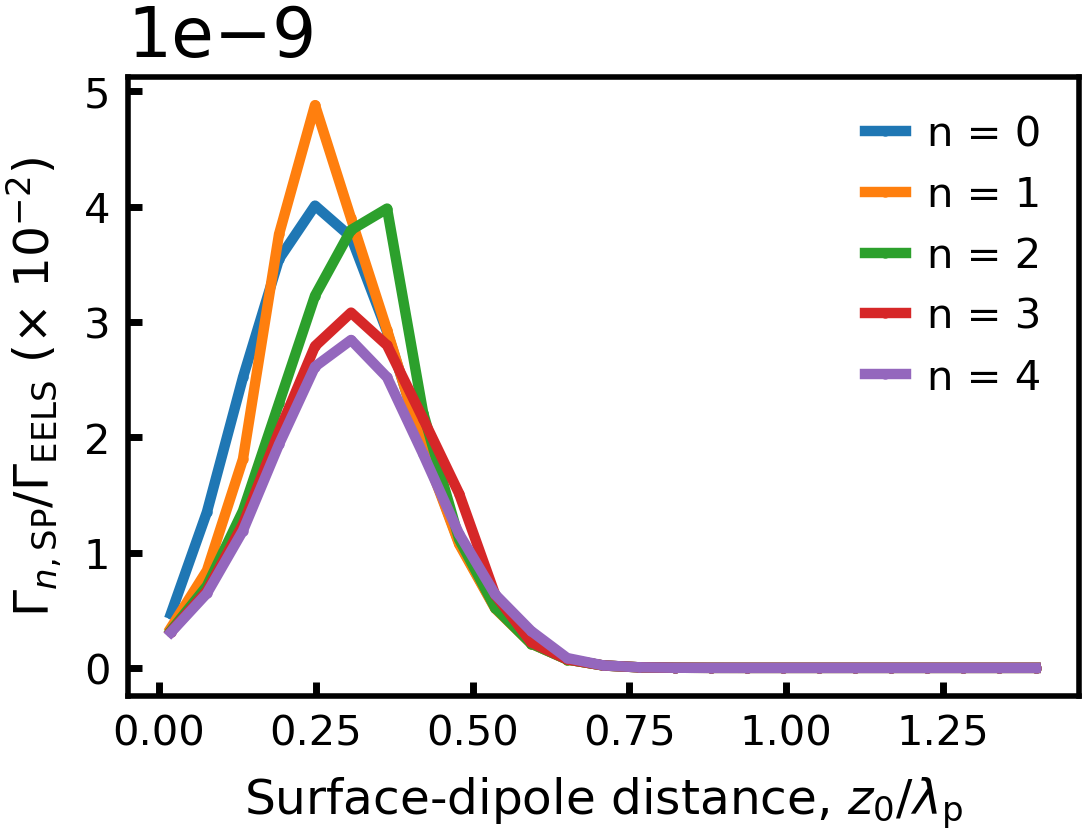
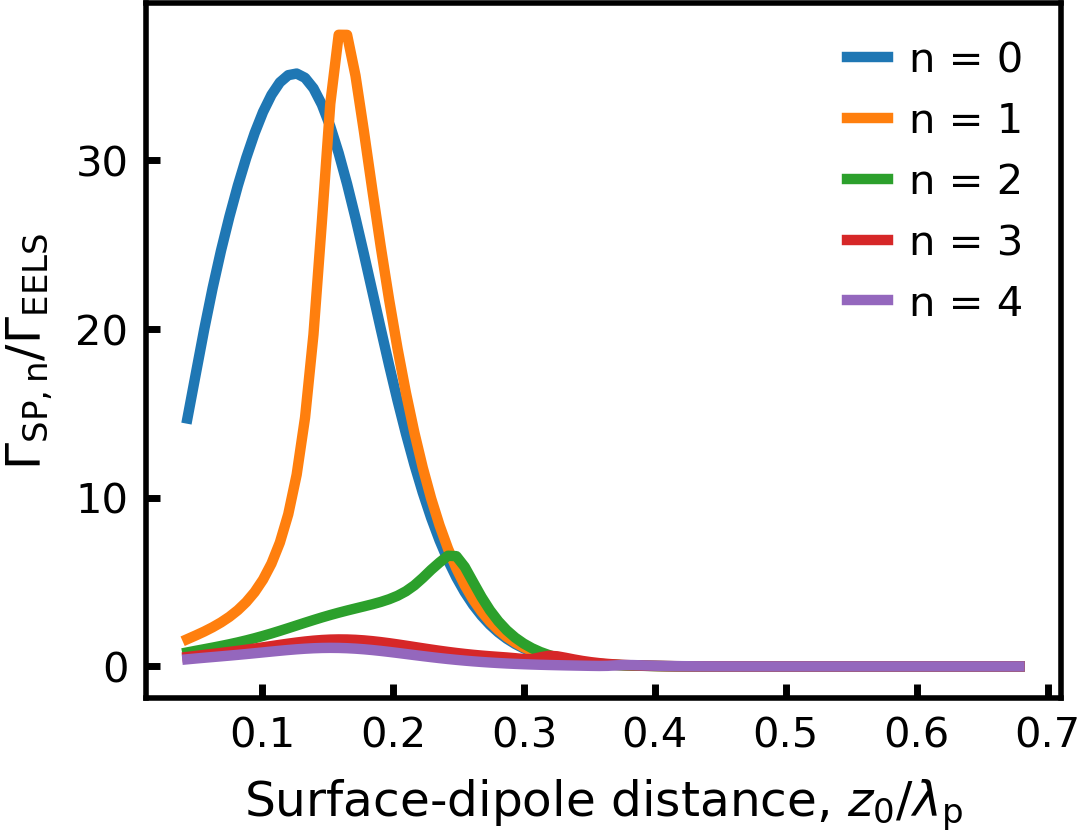
update from icfo dell

diff --git a/graphene/infinite_dipoles/plot_decay_rate_theta_n_opt_zp_fix_zp.py b/graphene/infinite_dipoles/plot_decay_rate_theta_n_opt_zp_fix_zp.py
@@ -34,7 +34,13 @@ try:
 except ModuleNotFoundError:
     print(err)
 
+try:
+    sys.path.insert(1, path_constants)
+    from graphene_sigma import sigma_DL
+except ModuleNotFoundError:
+    print('graphene_sigma.py no se encuentra en ' + path_basic)
 
+    
 try:
     sys.path.insert(1, path_constants)
     from constants import constantes
@@ -168,7 +174,24 @@ def function_real_ana(energy0_meV,zp_nano,Nmax):
 
     return rta
 
+def theta(E_meV,a_micros):
+    
 
+    E = E_meV*1e-3  
+    cond = 4*np.pi*alfac*sigma_DL(E,hbmu,hbgama)
+    alfa_p = 1j*(epsi1 + epsi2)/(cond)
+    omegac = E/(hb*c)
+    kp = alfa_p*omegac    
+    
+    a = a_micros
+    
+    theta0 = np.arccos((omegac*int_v - 2*np.pi*Nmax/a)/np.real(kp))
+#    print(theta0)
+    return theta0*180/np.pi
+
+
+#%%
+    
 tamfig = [2.5, 2]
 tamletra = 9
 tamtitle  = 9
@@ -265,30 +288,67 @@ for n in list_n:
 plt.legend(loc = 'best',markerscale=mk,fontsize=tamlegend,frameon=False,handletextpad=hp, handlelength=1)
 #    plt.grid(1)
 plt.tight_layout()
-    
-graph(title,labelx,labely ,tamfig,tamtitle,tamletra,tamnum,labelpadx,labelpady,pad)
+
+
+#%%
+
+list_y_re_tot = []
+maxis_ind = []  ## i used this to find listx_pos and listy_pos
+values_angle = []
+
 for n in list_n:
     
     list_y_re = []
-
-
+    
     for ind in range(len(listx_2)):
 #        zp = listy_2[ind]
         x =  listx_2[ind]
 #        x = 43 #meV
         list_y_re.append(function_real_ana(x,zp_nano,n))
-            
-    listx_3 = np.array(listy_2)/np.array(listz_2)
-    plt.plot(listx_4,np.array(list_y_re),'-',ms = ms, label = 'n = %i'%(n))
+        
+    list_y_re_tot.append(list_y_re)
+    
+    ind_max = np.argmax(list_y_re)
+    maxis_ind.append(int(ind_max))
+    values_angle.append(theta(listx_2[int(ind_max)],a))
+ 
+#%%
+#print(values_angle)
+values_angle = sorted(values_angle)
+values_angle = np.array(values_angle[::-1])
+
+#%%
+
+list_colors = ['#1f77b4', '#ff7f0e', '#2ca02c', '#d62728',
+              '#9467bd', '#8c564b', '#e377c2', '#7f7f7f',
+              '#bcbd22', '#17becf']
+
+listx_pos = [0.619 , 0.648 , 0.671 , 0.691 , 0.71 ]
+listy_pos = [0.106 , 0.0319 , 0.022 , 0.0169 , 0.0138]
+
+fig = plt.figure(figsize=tamfig)
+ax = fig.add_subplot(111)
+plt.xlabel(labelx,fontsize=tamletra,labelpad =labelpadx)
+plt.ylabel(labely,fontsize=tamletra,labelpad =labelpady)
+plt.tick_params(labelsize = tamnum, length = 2 , width=1, direction="in", pad = pad)
+for k in range(len(list_y_re_tot)) :
+    plt.plot(listx_4,list_y_re_tot[k],'-',color = list_colors[k],ms = ms, label = 'n = %i'%(k))
+    
+    x,y = listx_pos[k] , listy_pos[k]
+
+    plt.text(x,y,r'%.1f' %(values_angle[k]) + u"\N{DEGREE SIGN}",color = list_colors[k],fontsize=tamlegend)
     
 plt.legend(loc = 'best',markerscale=mk,fontsize=tamlegend,frameon=False,handletextpad=hp, handlelength=1)
 #    plt.grid(1)
 plt.tight_layout()
+plt.ylim(-0.003, np.max(list_y_re_tot[0]) + 0.016)
 
 #plt.yscale('log')
 os.chdir(path_save)
 #plt.savefig('decay_rate_fix_zp_' + labelp + '.png', format='png',bbox_inches='tight',pad_inches = 0.008,dpi = dpi)
 plt.savefig('decay_rate_fix_zp_' + labelp + '.png', format='png',bbox_inches='tight',pad_inches = 0.008,dpi = dpi)
+
+
 
 #%%
 

diff --git a/hBn-disks-v2/infinite_dipoles/plot_decay_rate_theta_n_opt_zp_fix_zp.py b/hBn-disks-v2/infinite_dipoles/plot_decay_rate_theta_n_opt_zp_fix_zp.py
@@ -76,7 +76,8 @@ tabla = np.transpose(tabla)
 [listx,listy,listz] = tabla
 
 zp_nano = listy[-20]
-#zp_nano = 3.5
+zp_nano = 3.5
+zp_nano = 10.25
 #zp_nano = 50
 #zp_nano = listy[-20]
 omegac0_1 = np.max(listx)/(c*hb)
@@ -91,7 +92,7 @@ a_max = np.real(lambda_SP_2)*Nmax/(int_v + 1)
 
 a = np.mean([a_min,a_max])
 #a = 0.001*1e-3
-#a = 120*1e-3
+a = 95*1e-3
 #a = 5*1e-3
 
 #a = 150*1e-3
@@ -123,7 +124,7 @@ labelp = r'_a%.2fnm_zp%.2fnm_d%.2fnm' %(a*1e3,zp_nano,d_nano_film)
 f1 = interp1d(listx, listy)
 f2 = interp1d(listx, listz)
 
-N = 100
+N = 75
 lim1,lim2 = 18,-60
 lim1,lim2 = 0,-20
 #lim1,lim2 = 14,-1
